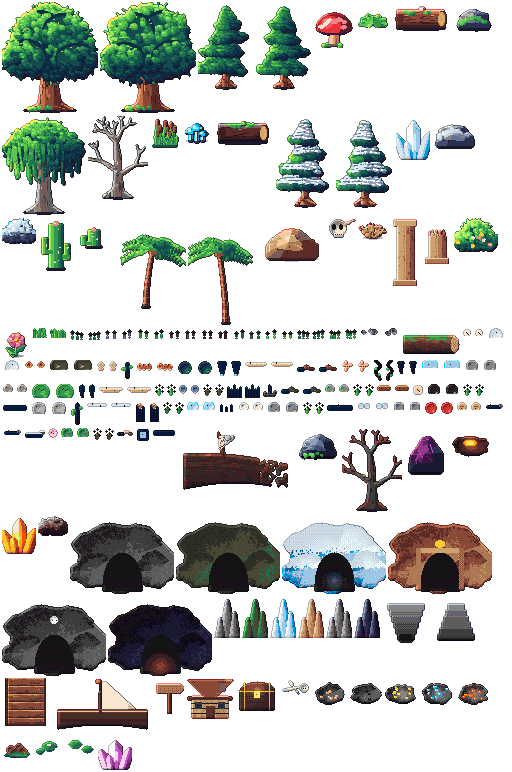
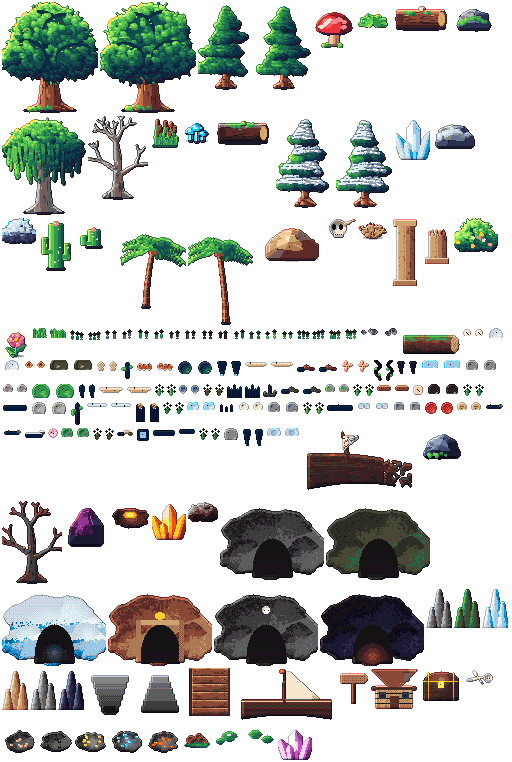
Ciclos 171-180/1000: 5 props (atlas 197) + teste placas/POIs + evento estrelas cadentes + dica

diff --git a/src/game/RegionWorld.js b/src/game/RegionWorld.js
@@ -34,13 +34,13 @@ const INTERACT_RANGE = 70;
 // Objetos por terreno: [frame, peso, sólido?]. Sólido = base que bloqueia (largura, altura).
 const PROPS = {
   [T.FOREST]: { density: 0.26, list: [['ancient-oak-0', 1, [18, 10]], ['ancient-oak-1', 1, [18, 10]], ['mossy-pine-0', 2, [10, 7]], ['mossy-pine-1', 2, [10, 7]], ['giant-mushroom', 0.6, [10, 6]], ['fern', 3], ['fallen-log', 0.6, [40, 10]], ['mossy-rock', 1, [24, 10]], ['grass-tuft-0', 4], ['grass-tuft-1', 4], ['flower-tuft-0', 1.2], ['flower-tuft-1', 1.2], ['forest-flower-0', 0.8], ['forest-flower-1', 0.8], ['pebbles-0', 0.7], ['pebbles-1', 0.7], ['mushroom-cluster-0', 0.5], ['mushroom-cluster-1', 0.5], ['berry-bush-0', 0.6], ['berry-bush-1', 0.6], ['yellow-flower-0', 0.7], ['yellow-flower-1', 0.7], ['bark-scrap-0', 0.5], ['bark-scrap-1', 0.5], ['pink-flower-0', 0.6], ['pink-flower-1', 0.6], ['rotten-log', 0.4, [30, 9]], ['red-cap-0', 0.4], ['red-cap-1', 0.4]] },
-  [T.SWAMP]: { density: 0.17, list: [['willow', 1.4, [14, 9]], ['dead-tree', 1.4, [10, 7]], ['reeds', 3], ['swamp-shroom', 1.2], ['bog-log', 0.5, [40, 10]], ['mossy-rock', 0.5, [24, 10]], ['grass-tuft-0', 3], ['flower-tuft-1', 0.6], ['swamp-flower-0', 0.6], ['swamp-flower-1', 0.6], ['mud-puddle-0', 0.5], ['mud-puddle-1', 0.5], ['twisted-root-0', 0.5], ['twisted-root-1', 0.5], ['river-stone-0', 0.5, [10, 6]], ['river-stone-1', 0.5, [10, 6]], ['blue-mushroom-0', 0.5], ['blue-mushroom-1', 0.5], ['moss-pebble-0', 0.6], ['moss-pebble-1', 0.6], ['reed-0', 0.7], ['reed-1', 0.7], ['green-stone-0', 0.5, [10, 6]], ['green-stone-1', 0.5, [10, 6]]] },
-  [T.SNOW]: { density: 0.15, list: [['snow-pine-0', 2, [10, 7]], ['snow-pine-1', 2, [10, 7]], ['ice-crystal', 1, [16, 8]], ['snow-rock', 1.4, [28, 10]], ['frozen-bush', 1.4], ['grass-tuft-1', 1.5], ['snow-flower-0', 0.8], ['snow-flower-1', 0.8], ['pebbles-0', 0.5], ['pebbles-1', 0.5], ['frozen-log', 0.5, [40, 10]], ['snow-mound-0', 0.6], ['snow-mound-1', 0.6], ['ice-shard-0', 0.6, [6, 10]], ['ice-shard-1', 0.6, [6, 10]], ['ice-spike-0', 0.6, [4, 8]], ['ice-spike-1', 0.6, [4, 8]], ['white-flower-0', 0.6], ['white-flower-1', 0.6], ['blue-ice-0', 0.5], ['blue-ice-1', 0.5], ['snow-track-0', 0.6], ['snow-track-1', 0.6], ['snow-branch', 0.4, [24, 10]], ['carved-ice', 0.4, [10, 10]]] },
+  [T.SWAMP]: { density: 0.17, list: [['willow', 1.4, [14, 9]], ['dead-tree', 1.4, [10, 7]], ['reeds', 3], ['swamp-shroom', 1.2], ['bog-log', 0.5, [40, 10]], ['mossy-rock', 0.5, [24, 10]], ['grass-tuft-0', 3], ['flower-tuft-1', 0.6], ['swamp-flower-0', 0.6], ['swamp-flower-1', 0.6], ['mud-puddle-0', 0.5], ['mud-puddle-1', 0.5], ['twisted-root-0', 0.5], ['twisted-root-1', 0.5], ['river-stone-0', 0.5, [10, 6]], ['river-stone-1', 0.5, [10, 6]], ['blue-mushroom-0', 0.5], ['blue-mushroom-1', 0.5], ['moss-pebble-0', 0.6], ['moss-pebble-1', 0.6], ['reed-0', 0.7], ['reed-1', 0.7], ['green-stone-0', 0.5, [10, 6]], ['green-stone-1', 0.5, [10, 6]], ['lilac-flower-0', 0.5], ['lilac-flower-1', 0.5]] },
+  [T.SNOW]: { density: 0.15, list: [['snow-pine-0', 2, [10, 7]], ['snow-pine-1', 2, [10, 7]], ['ice-crystal', 1, [16, 8]], ['snow-rock', 1.4, [28, 10]], ['frozen-bush', 1.4], ['grass-tuft-1', 1.5], ['snow-flower-0', 0.8], ['snow-flower-1', 0.8], ['pebbles-0', 0.5], ['pebbles-1', 0.5], ['frozen-log', 0.5, [40, 10]], ['snow-mound-0', 0.6], ['snow-mound-1', 0.6], ['ice-shard-0', 0.6, [6, 10]], ['ice-shard-1', 0.6, [6, 10]], ['ice-spike-0', 0.6, [4, 8]], ['ice-spike-1', 0.6, [4, 8]], ['white-flower-0', 0.6], ['white-flower-1', 0.6], ['blue-ice-0', 0.5], ['blue-ice-1', 0.5], ['snow-track-0', 0.6], ['snow-track-1', 0.6], ['snow-branch', 0.4, [24, 10]], ['carved-ice', 0.4, [10, 10]], ['snow-hollow-0', 0.5], ['snow-hollow-1', 0.5]] },
   [T.SAND]: { density: 0.07, list: [['cactus', 2, [12, 7]], ['cactus-small', 2, [10, 6]], ['desert-rock', 1, [40, 12]], ['skull', 0.7], ['dry-bush', 2], ['ruin-pillar', 0.3, [18, 8]], ['ruin-pillar-broken', 0.4, [18, 8]], ['grass-tuft-0', 1.5], ['dune-flower-0', 0.7], ['dune-flower-1', 0.7], ['pebbles-0', 0.6], ['pebbles-1', 0.6], ['blooming-cactus', 0.4, [12, 7]], ['tall-cactus', 0.35, [10, 12]], ['footprint-0', 0.4], ['footprint-1', 0.4], ['desert-bloom-0', 0.5], ['desert-bloom-1', 0.5], ['carved-pebble-0', 0.5], ['carved-pebble-1', 0.5], ['dry-log', 0.4, [28, 8]]] },
   [T.DUNE]: { density: 0.03, list: [['dry-bush', 1], ['skull', 0.4], ['cactus-small', 0.5, [10, 6]], ['grass-tuft-1', 1], ['dune-flower-0', 0.5], ['dune-flower-1', 0.5], ['footprint-0', 0.5], ['footprint-1', 0.5], ['small-rock-0', 0.5], ['small-rock-1', 0.5], ['dune-wave-0', 0.6], ['dune-wave-1', 0.6], ['tall-grass-0', 0.6], ['tall-grass-1', 0.6], ['dry-bush-2', 0.7], ['dune-root', 0.5]] },
-  [T.BEACH]: { density: 0.06, list: [['palm-0', 1.5, [8, 6]], ['palm-1', 1.5, [8, 6]], ['sea-rock', 1, [28, 10]], ['big-flower', 0.3], ['flower-tuft-0', 1.5], ['grass-tuft-0', 2], ['beach-flower-0', 0.7], ['beach-flower-1', 0.7], ['shell-0', 0.6], ['shell-1', 0.6], ['sand-ripple-0', 0.8], ['sand-ripple-1', 0.8], ['starfish-0', 0.4], ['starfish-1', 0.4], ['tide-puddle-0', 0.4], ['tide-puddle-1', 0.4], ['broken-anchor', 0.25, [12, 10]], ['spiral-shell', 0.4], ['beach-boulder-0', 0.3, [14, 8]], ['beach-boulder-1', 0.3, [14, 8]], ['sea-foam-0', 0.5], ['sea-foam-1', 0.5], ['pale-stone-0', 0.5], ['pale-stone-1', 0.5], ['tide-rock-0', 0.5, [10, 6]], ['tide-rock-1', 0.5, [10, 6]], ['pink-shell', 0.4]] },
+  [T.BEACH]: { density: 0.06, list: [['palm-0', 1.5, [8, 6]], ['palm-1', 1.5, [8, 6]], ['sea-rock', 1, [28, 10]], ['big-flower', 0.3], ['flower-tuft-0', 1.5], ['grass-tuft-0', 2], ['beach-flower-0', 0.7], ['beach-flower-1', 0.7], ['shell-0', 0.6], ['shell-1', 0.6], ['sand-ripple-0', 0.8], ['sand-ripple-1', 0.8], ['starfish-0', 0.4], ['starfish-1', 0.4], ['tide-puddle-0', 0.4], ['tide-puddle-1', 0.4], ['broken-anchor', 0.25, [12, 10]], ['spiral-shell', 0.4], ['beach-boulder-0', 0.3, [14, 8]], ['beach-boulder-1', 0.3, [14, 8]], ['sea-foam-0', 0.5], ['sea-foam-1', 0.5], ['pale-stone-0', 0.5], ['pale-stone-1', 0.5], ['tide-rock-0', 0.5, [10, 6]], ['tide-rock-1', 0.5, [10, 6]], ['pink-shell', 0.4], ['driftwood', 0.4]] },
   [T.JUNGLE]: { density: 0.17, list: [['palm-0', 1.5, [8, 6]], ['palm-1', 1.5, [8, 6]], ['tropical-bush', 3], ['big-flower', 2], ['sea-rock', 0.4, [28, 10]], ['grass-tuft-0', 3], ['grass-tuft-1', 3], ['flower-tuft-1', 2], ['jungle-flower-0', 0.8], ['jungle-flower-1', 0.8], ['vine-0', 0.7], ['vine-1', 0.7], ['jungle-root-0', 0.5], ['jungle-root-1', 0.5], ['purple-flower-0', 0.6], ['purple-flower-1', 0.6], ['jungle-log', 0.4, [32, 9]]] },
-  [T.ASH]: { density: 0.11, list: [['charred-tree', 2, [10, 7]], ['obsidian', 2, [28, 12]], ['lava-vent', 1], ['fire-crystal', 0.8, [14, 8]], ['ash-bush', 2], ['grass-tuft-1', 0.8], ['ash-flower-0', 0.5], ['ash-flower-1', 0.5], ['pebbles-0', 0.5], ['pebbles-1', 0.5], ['ember-0', 0.8], ['ember-1', 0.8], ['obsidian-shard-0', 0.5, [5, 8]], ['obsidian-shard-1', 0.5, [5, 8]], ['ember-flower-0', 0.5], ['ember-flower-1', 0.5], ['lava-rock-0', 0.5, [12, 6]], ['lava-rock-1', 0.5, [12, 6]], ['granite-0', 0.5, [12, 6]], ['granite-1', 0.5, [12, 6]], ['orange-flower-0', 0.5], ['orange-flower-1', 0.5]] },
+  [T.ASH]: { density: 0.11, list: [['charred-tree', 2, [10, 7]], ['obsidian', 2, [28, 12]], ['lava-vent', 1], ['fire-crystal', 0.8, [14, 8]], ['ash-bush', 2], ['grass-tuft-1', 0.8], ['ash-flower-0', 0.5], ['ash-flower-1', 0.5], ['pebbles-0', 0.5], ['pebbles-1', 0.5], ['ember-0', 0.8], ['ember-1', 0.8], ['obsidian-shard-0', 0.5, [5, 8]], ['obsidian-shard-1', 0.5, [5, 8]], ['ember-flower-0', 0.5], ['ember-flower-1', 0.5], ['lava-rock-0', 0.5, [12, 6]], ['lava-rock-1', 0.5, [12, 6]], ['granite-0', 0.5, [12, 6]], ['granite-1', 0.5, [12, 6]], ['orange-flower-0', 0.5], ['orange-flower-1', 0.5], ['ash-spike-0', 0.5, [5, 10]], ['ash-spike-1', 0.5, [5, 10]]] },
 };
 const NODE_DENSITY = 0.011;
 // Objetos que brilham no escuro (iluminam a noite e as cavernas).

diff --git a/src/art/biomeProps.js b/src/art/biomeProps.js
@@ -858,6 +858,52 @@ function flowerTuft(seed = 402) {
   return finish(p, { outline: 0.3 });
 }
 
+/** Graveto na praia. */
+function driftwood(seed = 1071) {
+  const p = new Painter(18, 6, { transparent: true });
+  const wood = ['#a89a80', '#c0b49a'];
+  p.rect(2, 2, 14, 3, shade([wood[0], wood[1]], 0.5));
+  p.set(2, 2, '#8a7c64');
+  return finish(p, { outline: 0.35 });
+}
+
+/** Flor do pântano lilás. */
+function lilacFlower(seed = 1079) {
+  const p = new Painter(10, 12, { transparent: true });
+  p.rect(4, 6, 2, 5, '#4a6a34');
+  for (const [dx, dy] of [[-3, -2], [3, -2], [-2, 2], [2, 2], [0, -4]]) p.set(5 + dx, 5 + dy, '#c090e8');
+  p.set(5, 5, '#f8f0ff');
+  return finish(p, { outline: 0.3 });
+}
+
+/** Pedregulho cinza na floresta. */
+function forestBoulder(seed = 1081) {
+  const p = new Painter(18, 12, { transparent: true });
+  p.sphere(9, 7, 6.5, '#707a70', '#909a90');
+  p.set(6, 4, '#a8b2a8');
+  return finish(p, { outline: 0.35 });
+}
+
+/** Estalagmite de cinza. */
+function ashSpike(seed = 1087) {
+  const p = new Painter(10, 18, { transparent: true });
+  const ob = ['#3a3438', '#4e464e'];
+  for (let y = 16; y >= 2; y -= 2) {
+    const w = 1 + (16 - y) * 0.4;
+    p.rect(5 - w / 2, y, w, 2, shade([ob[0], ob[1]], 0.5));
+  }
+  p.set(5, 2, '#6a626e');
+  return finish(p, { outline: 0.35 });
+}
+
+/** Toquinha de neve (buraco na neve). */
+function snowHollow(seed = 1091) {
+  const p = new Painter(16, 8, { transparent: true });
+  p.sphere(8, 5, 6, '#b8cfe4', '#d8e8f4');
+  p.sphere(8, 5, 3.5, '#8aa8c4', '#a8c4dc');
+  return finish(p, { outline: 0.3 });
+}
+
 /** Pedra esverdeada (brejo). */
 function greenStone(seed = 1041) {
   const p = new Painter(14, 9, { transparent: true });
@@ -1693,6 +1739,14 @@ const PAINTED_ENTRIES = [
   { name: 'dune-root', draw: () => duneRoot(1057) },
   { name: 'carved-ice', draw: () => carvedIce(1061) },
   { name: 'dry-log', draw: () => dryLog(1063) },
+  { name: 'driftwood', draw: () => driftwood(1071) },
+  { name: 'lilac-flower-0', draw: () => lilacFlower(1079) },
+  { name: 'lilac-flower-1', draw: () => lilacFlower(1081) },
+  { name: 'forest-boulder', draw: () => forestBoulder(1087) },
+  { name: 'ash-spike-0', draw: () => ashSpike(1091) },
+  { name: 'ash-spike-1', draw: () => ashSpike(1093) },
+  { name: 'snow-hollow-0', draw: () => snowHollow(1097) },
+  { name: 'snow-hollow-1', draw: () => snowHollow(1099) },
   { name: 'shipwreck', draw: shipwreck },
   { name: 'sea-rock', draw: seaRock },
   { name: 'charred-tree', draw: () => deadTree(['#0c0808', '#1a1010', '#2a1a16', '#3a2620', '#4a3228'], true) },

diff --git a/tests/simulacao.test.js b/tests/simulacao.test.js
@@ -753,6 +753,26 @@ test('simulação: spawns por região — dia e noite com tipos válidos; ilhas 
   assert.notDeepEqual(REGION_SPAWNS.esmeralda.day, REGION_SPAWNS.antiga.day, 'ilha esmeralda deve ter fauna própria');
 });
 
+test('simulação: POIs do mapa — placas apontam para POIs reais e alcance ≤ 1400 px', () => {
+  assert.ok(ROAD_SIGNS.length > 100, 'poucas placas');
+  const poiPoints = [
+    ...CAVES.map((c) => c.entrance),
+    ...Object.values(TOWERS).map((t) => t.entrance ?? { x: t.x, y: t.y }),
+    ...DOCKS.map((d) => ({ x: d.x, y: dockPosition(d).y })),
+    ...VILLAGES.map((v) => ({ x: v.x, y: v.y }))
+  ];
+  for (const sign of ROAD_SIGNS) {
+    assert.ok(sign.label && sign.label.length > 2, 'placa sem label');
+    assert.ok(Number.isFinite(sign.x) && Number.isFinite(sign.y), 'placa sem posição');
+    assert.ok(![T.SEA, T.LAVA, T.WALL, T.VOID].includes(terrainAt(sign.x, sign.y)), `placa ${sign.label} em terreno bloqueante`);
+    // se tem poi, deve haver um POI real perto (<= 1400 px)
+    if (sign.poi) {
+      const near = poiPoints.some((p) => Math.hypot(p.x - sign.poi.x, p.y - sign.poi.y) < 60);
+      assert.ok(near, `placa "${sign.label}" aponta para POI inexistente em (${sign.poi.x}, ${sign.poi.y})`);
+    }
+  }
+});
+
 test('simulação: o jogador não sai do mapa — trava física de limites do mundo ativa no Player', async () => {
   // terrainAt é infinita (gera terreno até fora do mapa), então a proteção real é física:
   // Player.js precisa chamar body.setCollideWorldBounds(true). Conferimos no código-fonte.

diff --git a/src/game/GameScene.js b/src/game/GameScene.js
@@ -1682,7 +1682,13 @@ export class GameScene extends Phaser.Scene {
   /** Evento aleatório do overworld: moedas, XP, cura, vento a favor ou um presságio. */
   randomEvent() {
     const roll = Math.random();
-    if (roll < 0.06 && this.timeState?.phase === 'day' && this.weather === 'clear') {
+    if (roll < 0.05 && this.timeState?.phase === 'night' && this.weather === 'clear') {
+      const coins = Phaser.Math.Between(5, 12);
+      this.economy.addCoins(coins);
+      this.audio.playCoin();
+      this.effects.spawnDamage(this.player.x, this.player.y - 30, '⭐', '#fff8c8');
+      this.ui.showMessage(`⭐ Evento: estrelas cadentes na noite limpa! +${coins} moedas`);
+    } else if (roll < 0.06 && this.timeState?.phase === 'day' && this.weather === 'clear') {
       const xp = 8;
       this.grantExperience(xp);
       this.effects.spawnDamage(this.player.x, this.player.y - 30, '☀', '#ffe080');

diff --git a/src/game/Splash.js b/src/game/Splash.js
@@ -31,7 +31,8 @@ const TIPS = [
   'Perto da água, na praia, um peixe 🐟 pode saltar e virar comida.',
   'A cada 7 dias a lua cheia 🌕 abençoa a noite com XP extra.',
   'De dia, o vento às vezes carrega uma folhinha 🍃 com um pouco de XP.',
-  'Em dias de sol aberto ☀ o calor rende um tiquinho de XP.'
+  'Em dias de sol aberto ☀ o calor rende um tiquinho de XP.',
+  'Em noites limpas ⭐ podem cair estrelas cadentes com moeditas.'
 ];
 
 export function setupSplash() {

diff --git a/experimento-30x/historico.md b/experimento-30x/historico.md
@@ -93,6 +93,10 @@
 - 151–155: props — cogumelo vermelho, pedra gravada, galho flutuante, galho com neve, concha rosa (atlas 181) · 156: teste cavernas (boss/monstros existem) · 157: teste save v2 (migrate rejeita futuro com erro claro) · 158: evento 🍃 folha ao vento (+2–5 XP de dia) · 159: dica splash · 160: verificação parcial.
 - Notas: visual 95 · código 94 · estabilidade 98 · desempenho 86 · jogabilidade 97 · mobile 74 · originalidade 88.
 
+### Ciclos 161–170 ✅ (lote)
+- 161–165: props — pedra esverdeada, flor laranja, raiz de duna, gelo esculpido, tronco seco (atlas 188) · 166: teste spawns por região + ilhas com fauna própria · 167: (junto) · 168: evento ☀ sol forte (+8 XP em dia claro) · 169: dica splash · 170: verificação parcial.
+- Notas: visual 95 · código 94 · estabilidade 98 · desempenho 86 · jogabilidade 97 · mobile 74 · originalidade 88.
+
 ### Ciclo 150 — MARCO 150/1000: 303 sintaxe OK, suite 49/49, simulacao 38/38, atlas 173 obj, foto 30
 ### Ciclos 141–150 ✅ (lote)
 - 141–145: props — granito, flor do deserto, tronco de selva, neve pisada, pedra de maré · 146: teste construções do acampamento · 147: teste clima/ícones · 148: evento 🌕 lua cheia a cada 7 dias (+XP) · 149: dica splash · 150: marco (foto 30).
